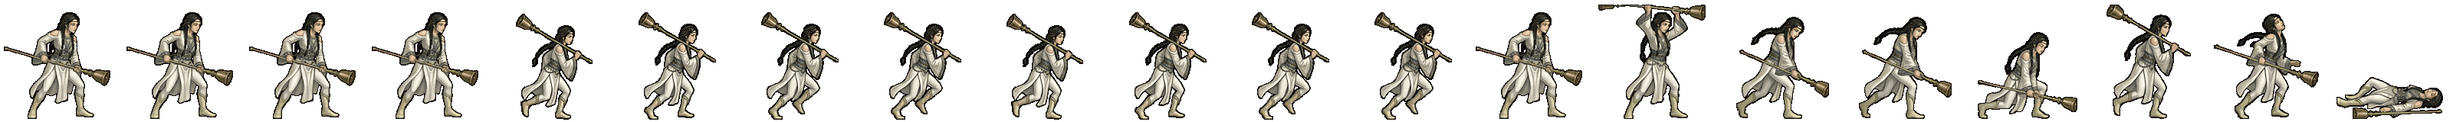
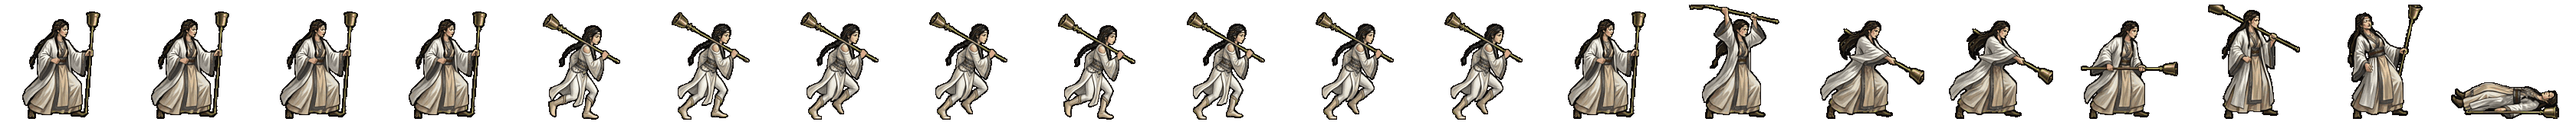
신천간 띠: 동작 8컷만 새로 (제미나이 u/5 · 초상만) — 방울 지팡이 전체가 칸 안에 들어오는 내려치기·쓰러짐 (걷기는 그대로)
Claude-Session: https://claude.ai/code/session_01TRiuN9kn81xgdziumEqNAF

Changed region(s): [[0.0, 0.0312, 1.0, 0.9688]]

diff --git a/src/realm/data/spritePx.ts b/src/realm/data/spritePx.ts
@@ -1,2 +1,2 @@
 /** public/realm/anim-px/manifest.json 의 사본 — tools/sprite-normalize.mjs 가 만든다 (손으로 고치지 말 것). 칸 [가로, 세로] · feet = 발 줄(칸 위에서 y) · bodyPx = 서 있는 몸 키 */
-export const SPRITE_PX: Readonly<Record<string, { readonly cell: readonly [number, number]; readonly feet: number; readonly bodyPx: number; readonly kind: 'general' | 'soldier' | 'folk' | 'crowd'; readonly cells: number }>> = {"axe":{"cell":[166,128],"feet":126,"bodyPx":124,"kind":"soldier","cells":20},"bandit-chief":{"cell":[116,128],"feet":126,"bodyPx":117,"kind":"soldier","cells":20},"bandit-club":{"cell":[127,128],"feet":126,"bodyPx":116,"kind":"soldier","cells":20},"boat":{"cell":[269,128],"feet":126,"bodyPx":126,"kind":"soldier","cells":20},"bow":{"cell":[503,128],"feet":126,"bodyPx":127,"kind":"soldier","cells":20},"crossbow":{"cell":[614,128],"feet":126,"bodyPx":126,"kind":"soldier","cells":20},"gen-adogan":{"cell":[144,160],"feet":156,"bodyPx":70,"kind":"general","cells":20},"gen-alpyeong":{"cell":[144,160],"feet":156,"bodyPx":70,"kind":"general","cells":20},"gen-ara":{"cell":[160,160],"feet":156,"bodyPx":70,"kind":"general","cells":20},"gen-areum":{"cell":[160,160],"feet":156,"bodyPx":70,"kind":"general","cells":20},"gen-aryeong":{"cell":[208,160],"feet":156,"bodyPx":70,"kind":"general","cells":20},"gen-bakdal":{"cell":[160,160],"feet":156,"bodyPx":70,"kind":"general","cells":20},"gen-baram":{"cell":[176,160],"feet":156,"bodyPx":70,"kind":"general","cells":20},"gen-bdanbi":{"cell":[152,160],"feet":156,"bodyPx":70,"kind":"general","cells":20},"gen-beom":{"cell":[168,160],"feet":156,"bodyPx":70,"kind":"general","cells":20},"gen-beombal":{"cell":[216,160],"feet":156,"bodyPx":70,"kind":"general","cells":20},"gen-beomi":{"cell":[160,160],"feet":156,"bodyPx":70,"kind":"general","cells":20},"gen-bira":{"cell":[176,160],"feet":156,"bodyPx":70,"kind":"general","cells":20},"gen-biryu":{"cell":[160,160],"feet":156,"bodyPx":73,"kind":"general","cells":20},"gen-budeul":{"cell":[248,160],"feet":156,"bodyPx":70,"kind":"general","cells":20},"gen-byeol":{"cell":[176,160],"feet":156,"bodyPx":70,"kind":"general","cells":20},"gen-daemusin":{"cell":[152,160],"feet":156,"bodyPx":70,"kind":"general","cells":20},"gen-daeso":{"cell":[176,160],"feet":156,"bodyPx":70,"kind":"general","cells":20},"gen-dallae2":{"cell":[168,160],"feet":156,"bodyPx":70,"kind":"general","cells":20},"gen-dalli":{"cell":[152,160],"feet":156,"bodyPx":70,"kind":"general","cells":20},"gen-damul":{"cell":[152,160],"feet":156,"bodyPx":70,"kind":"general","cells":20},"gen-danbi":{"cell":[152,160],"feet":156,"bodyPx":70,"kind":"general","cells":20},"gen-dangung":{"cell":[192,160],"feet":156,"bodyPx":70,"kind":"general","cells":20},"gen-darae":{"cell":[152,160],"feet":156,"bodyPx":70,"kind":"general","cells":20},"gen-dokmudeom":{"cell":[176,160],"feet":156,"bodyPx":70,"kind":"general","cells":20},"gen-duman":{"cell":[248,160],"feet":156,"bodyPx":70,"kind":"general","cells":20},"gen-eomni":{"cell":[160,160],"feet":156,"bodyPx":70,"kind":"general","cells":20},"gen-eureum":{"cell":[144,160],"feet":156,"bodyPx":70,"kind":"general","cells":20},"gen-g-bow":{"cell":[144,160],"feet":156,"bodyPx":70,"kind":"general","cells":20},"gen-g-spear":{"cell":[208,160],"feet":156,"bodyPx":70,"kind":"general","cells":20},"gen-g-sword":{"cell":[192,160],"feet":156,"bodyPx":70,"kind":"general","cells":20},"gen-gaennae":{"cell":[232,160],"feet":156,"bodyPx":70,"kind":"general","cells":20},"gen-gamsil":{"cell":[160,160],"feet":156,"bodyPx":70,"kind":"general","cells":20},"gen-gaon":{"cell":[152,160],"feet":156,"bodyPx":70,"kind":"general","cells":20},"gen-geota":{"cell":[192,160],"feet":156,"bodyPx":69,"kind":"general","cells":20},"gen-geumbawi":{"cell":[160,160],"feet":156,"bodyPx":70,"kind":"general","cells":20},"gen-geumha":{"cell":[192,160],"feet":156,"bodyPx":72,"kind":"general","cells":20},"gen-goeun":{"cell":[144,160],"feet":156,"bodyPx":70,"kind":"general","cells":20},"gen-gom":{"cell":[168,160],"feet":156,"bodyPx":70,"kind":"general","cells":20},"gen-gomok":{"cell":[152,160],"feet":156,"bodyPx":70,"kind":"general","cells":20},"gen-gureum":{"cell":[216,160],"feet":156,"bodyPx":70,"kind":"general","cells":20},"gen-guryema":{"cell":[152,160],"feet":156,"bodyPx":70,"kind":"general","cells":20},"gen-gwaeyu":{"cell":[200,160],"feet":156,"bodyPx":70,"kind":"general","cells":20},"gen-haebi":{"cell":[152,160],"feet":156,"bodyPx":70,"kind":"general","cells":20},"gen-haedal":{"cell":[152,160],"feet":156,"bodyPx":70,"kind":"general","cells":20},"gen-haesol":{"cell":[168,160],"feet":156,"bodyPx":70,"kind":"general","cells":20},"gen-halla":{"cell":[176,160],"feet":156,"bodyPx":70,"kind":"general","cells":20},"gen-heo":{"cell":[144,160],"feet":156,"bodyPx":70,"kind":"general","cells":20},"gen-hneoul":{"cell":[152,160],"feet":156,"bodyPx":70,"kind":"general","cells":20},"gen-hogong":{"cell":[160,160],"feet":156,"bodyPx":70,"kind":"general","cells":20},"gen-hojin":{"cell":[152,160],"feet":156,"bodyPx":70,"kind":"general","cells":20},"gen-horselord":{"cell":[144,160],"feet":156,"bodyPx":70,"kind":"general","cells":20},"gen-hwalmi":{"cell":[192,160],"feet":156,"bodyPx":70,"kind":"general","cells":20},"gen-hyeokgeose":{"cell":[160,160],"feet":156,"bodyPx":70,"kind":"general","cells":20},"gen-hyeopbo":{"cell":[168,160],"feet":156,"bodyPx":70,"kind":"general","cells":20},"gen-irang":{"cell":[160,160],"feet":156,"bodyPx":70,"kind":"general","cells":20},"gen-jibaekho":{"cell":[224,160],"feet":156,"bodyPx":70,"kind":"general","cells":20},"gen-jinha":{"cell":[168,160],"feet":156,"bodyPx":70,"kind":"general","cells":20},"gen-jita":{"cell":[144,160],"feet":156,"bodyPx":70,"kind":"general","cells":20},"gen-jumong":{"cell":[144,160],"feet":156,"bodyPx":70,"kind":"general","cells":20},"gen-keundol":{"cell":[152,160],"feet":156,"bodyPx":70,"kind":"general","cells":20},"gen-maehwa":{"cell":[144,160],"feet":156,"bodyPx":70,"kind":"general","cells":20},"gen-maenun":{"cell":[136,160],"feet":156,"bodyPx":70,"kind":"general","cells":20},"gen-malgalgi":{"cell":[168,160],"feet":156,"bodyPx":70,"kind":"general","cells":20},"gen-mari":{"cell":[152,160],"feet":156,"bodyPx":70,"kind":"general","cells":20},"gen-maro":{"cell":[160,160],"feet":156,"bodyPx":70,"kind":"general","cells":20},"gen-maryeo":{"cell":[152,160],"feet":156,"bodyPx":70,"kind":"general","cells":20},"gen-mdallae":{"cell":[168,160],"feet":156,"bodyPx":70,"kind":"general","cells":20},"gen-mir":{"cell":[144,160],"feet":156,"bodyPx":70,"kind":"general","cells":20},"gen-mount":{"cell":[232,160],"feet":156,"bodyPx":73,"kind":"general","cells":20},"gen-mulbeom":{"cell":[160,160],"feet":156,"bodyPx":70,"kind":"general","cells":20},"gen-mulsae":{"cell":[168,160],"feet":156,"bodyPx":70,"kind":"general","cells":20},"gen-musoe":{"cell":[152,160],"feet":156,"bodyPx":70,"kind":"general","cells":20},"gen-noeul":{"cell":[160,160],"feet":156,"bodyPx":70,"kind":"general","cells":20},"gen-nuri":{"cell":[168,160],"feet":156,"bodyPx":70,"kind":"general","cells":20},"gen-ocheongan":{"cell":[168,160],"feet":156,"bodyPx":70,"kind":"general","cells":20},"gen-odi":{"cell":[152,160],"feet":156,"bodyPx":70,"kind":"general","cells":20},"gen-odogan":{"cell":[168,160],"feet":156,"bodyPx":70,"kind":"general","cells":20},"gen-ogan":{"cell":[152,160],"feet":156,"bodyPx":70,"kind":"general","cells":20},"gen-oi":{"cell":[152,160],"feet":156,"bodyPx":70,"kind":"general","cells":20},"gen-olddaeso":{"cell":[144,160],"feet":156,"bodyPx":70,"kind":"general","cells":20},"gen-onjo":{"cell":[152,160],"feet":156,"bodyPx":70,"kind":"general","cells":20},"gen-pidogan":{"cell":[152,160],"feet":156,"bodyPx":70,"kind":"general","cells":20},"gen-sagong":{"cell":[160,160],"feet":156,"bodyPx":70,"kind":"general","cells":20},"gen-sdallae":{"cell":[168,160],"feet":156,"bodyPx":70,"kind":"general","cells":20},"gen-sincheongan":{"cell":[160,160],"feet":156,"bodyPx":70,"kind":"general","cells":20},"gen-singwigan":{"cell":[208,160],"feet":156,"bodyPx":70,"kind":"general","cells":20},"gen-sinneoul":{"cell":[176,160],"feet":156,"bodyPx":70,"kind":"general","cells":20},"gen-sobeol":{"cell":[152,160],"feet":156,"bodyPx":70,"kind":"general","cells":20},"gen-soebi":{"cell":[160,160],"feet":156,"bodyPx":70,"kind":"general","cells":20},"gen-soebo":{"cell":[208,160],"feet":156,"bodyPx":72,"kind":"general","cells":20},"gen-soenun":{"cell":[248,160],"feet":156,"bodyPx":70,"kind":"general","cells":20},"gen-sogeumbi":{"cell":[232,160],"feet":156,"bodyPx":70,"kind":"general","cells":20},"gen-songbi":{"cell":[152,160],"feet":156,"bodyPx":70,"kind":"general","cells":20},"gen-songyang":{"cell":[136,160],"feet":156,"bodyPx":70,"kind":"general","cells":20},"gen-sori":{"cell":[208,160],"feet":156,"bodyPx":70,"kind":"general","cells":20},"gen-soseono":{"cell":[208,160],"feet":156,"bodyPx":70,"kind":"general","cells":20},"gen-suro":{"cell":[160,160],"feet":156,"bodyPx":70,"kind":"general","cells":20},"gen-tahae":{"cell":[152,160],"feet":156,"bodyPx":70,"kind":"general","cells":20},"gen-tneoul":{"cell":[152,160],"feet":156,"bodyPx":70,"kind":"general","cells":20},"gen-w-bow":{"cell":[144,160],"feet":156,"bodyPx":70,"kind":"general","cells":20},"gen-w-spear":{"cell":[176,160],"feet":156,"bodyPx":70,"kind":"general","cells":20},"gen-waechief":{"cell":[152,160],"feet":156,"bodyPx":70,"kind":"general","cells":20},"gen-wan":{"cell":[144,160],"feet":156,"bodyPx":70,"kind":"general","cells":20},"gen-yeodogan":{"cell":[176,160],"feet":156,"bodyPx":70,"kind":"general","cells":20},"gen-yucheongan":{"cell":[152,160],"feet":156,"bodyPx":70,"kind":"general","cells":20},"gen-yusugan":{"cell":[168,160],"feet":156,"bodyPx":70,"kind":"general","cells":20},"horse":{"cell":[186,128],"feet":126,"bodyPx":127,"kind":"soldier","cells":20},"marine":{"cell":[298,128],"feet":126,"bodyPx":126,"kind":"soldier","cells":20},"migrant":{"cell":[82,128],"feet":126,"bodyPx":114,"kind":"folk","cells":8},"militia":{"cell":[134,128],"feet":126,"bodyPx":119,"kind":"soldier","cells":20},"pike":{"cell":[380,128],"feet":126,"bodyPx":124,"kind":"soldier","cells":20},"pirate-captain":{"cell":[114,128],"feet":126,"bodyPx":115,"kind":"soldier","cells":20},"pirate-sword":{"cell":[122,128],"feet":126,"bodyPx":114,"kind":"soldier","cells":20},"shield":{"cell":[254,128],"feet":126,"bodyPx":128,"kind":"soldier","cells":20},"spear":{"cell":[438,128],"feet":126,"bodyPx":126,"kind":"soldier","cells":20},"villager-builder":{"cell":[88,128],"feet":126,"bodyPx":113,"kind":"folk","cells":8},"villager-farmer":{"cell":[100,128],"feet":126,"bodyPx":115,"kind":"folk","cells":8},"villager-porter":{"cell":[108,128],"feet":126,"bodyPx":115,"kind":"folk","cells":8},"villager-woman":{"cell":[63,128],"feet":126,"bodyPx":113,"kind":"folk","cells":8},"crowd-b1":{"cell":[69,96],"feet":96,"bodyPx":96,"kind":"crowd","cells":1},"crowd-b2":{"cell":[54,96],"feet":96,"bodyPx":96,"kind":"crowd","cells":1},"crowd-b3":{"cell":[47,96],"feet":96,"bodyPx":96,"kind":"crowd","cells":1},"crowd-b4":{"cell":[49,96],"feet":96,"bodyPx":96,"kind":"crowd","cells":1},"crowd-b5":{"cell":[57,96],"feet":96,"bodyPx":96,"kind":"crowd","cells":1},"crowd-b6":{"cell":[55,96],"feet":96,"bodyPx":96,"kind":"crowd","cells":1},"crowd-f1":{"cell":[69,96],"feet":96,"bodyPx":96,"kind":"crowd","cells":1},"crowd-f2":{"cell":[55,96],"feet":96,"bodyPx":96,"kind":"crowd","cells":1},"crowd-f3":{"cell":[45,96],"feet":96,"bodyPx":96,"kind":"crowd","cells":1},"crowd-f4":{"cell":[53,96],"feet":96,"bodyPx":96,"kind":"crowd","cells":1},"crowd-f5":{"cell":[69,96],"feet":96,"bodyPx":96,"kind":"crowd","cells":1},"crowd-f6":{"cell":[64,96],"feet":96,"bodyPx":96,"kind":"crowd","cells":1},"gen-dalbit":{"cell":[96,72],"feet":72,"bodyPx":72,"kind":"general","cells":20}}
+export const SPRITE_PX: Readonly<Record<string, { readonly cell: readonly [number, number]; readonly feet: number; readonly bodyPx: number; readonly kind: 'general' | 'soldier' | 'folk' | 'crowd'; readonly cells: number }>> = {"axe":{"cell":[166,128],"feet":126,"bodyPx":124,"kind":"soldier","cells":20},"bandit-chief":{"cell":[116,128],"feet":126,"bodyPx":117,"kind":"soldier","cells":20},"bandit-club":{"cell":[127,128],"feet":126,"bodyPx":116,"kind":"soldier","cells":20},"boat":{"cell":[269,128],"feet":126,"bodyPx":126,"kind":"soldier","cells":20},"bow":{"cell":[503,128],"feet":126,"bodyPx":127,"kind":"soldier","cells":20},"crossbow":{"cell":[614,128],"feet":126,"bodyPx":126,"kind":"soldier","cells":20},"gen-adogan":{"cell":[144,160],"feet":156,"bodyPx":70,"kind":"general","cells":20},"gen-alpyeong":{"cell":[144,160],"feet":156,"bodyPx":70,"kind":"general","cells":20},"gen-ara":{"cell":[160,160],"feet":156,"bodyPx":70,"kind":"general","cells":20},"gen-areum":{"cell":[160,160],"feet":156,"bodyPx":70,"kind":"general","cells":20},"gen-aryeong":{"cell":[208,160],"feet":156,"bodyPx":70,"kind":"general","cells":20},"gen-bakdal":{"cell":[160,160],"feet":156,"bodyPx":70,"kind":"general","cells":20},"gen-baram":{"cell":[176,160],"feet":156,"bodyPx":70,"kind":"general","cells":20},"gen-bdanbi":{"cell":[152,160],"feet":156,"bodyPx":70,"kind":"general","cells":20},"gen-beom":{"cell":[168,160],"feet":156,"bodyPx":70,"kind":"general","cells":20},"gen-beombal":{"cell":[216,160],"feet":156,"bodyPx":70,"kind":"general","cells":20},"gen-beomi":{"cell":[160,160],"feet":156,"bodyPx":70,"kind":"general","cells":20},"gen-bira":{"cell":[176,160],"feet":156,"bodyPx":70,"kind":"general","cells":20},"gen-biryu":{"cell":[160,160],"feet":156,"bodyPx":73,"kind":"general","cells":20},"gen-budeul":{"cell":[248,160],"feet":156,"bodyPx":70,"kind":"general","cells":20},"gen-byeol":{"cell":[176,160],"feet":156,"bodyPx":70,"kind":"general","cells":20},"gen-daemusin":{"cell":[152,160],"feet":156,"bodyPx":70,"kind":"general","cells":20},"gen-daeso":{"cell":[176,160],"feet":156,"bodyPx":70,"kind":"general","cells":20},"gen-dallae2":{"cell":[168,160],"feet":156,"bodyPx":70,"kind":"general","cells":20},"gen-dalli":{"cell":[152,160],"feet":156,"bodyPx":70,"kind":"general","cells":20},"gen-damul":{"cell":[152,160],"feet":156,"bodyPx":70,"kind":"general","cells":20},"gen-danbi":{"cell":[152,160],"feet":156,"bodyPx":70,"kind":"general","cells":20},"gen-dangung":{"cell":[192,160],"feet":156,"bodyPx":70,"kind":"general","cells":20},"gen-darae":{"cell":[152,160],"feet":156,"bodyPx":70,"kind":"general","cells":20},"gen-dokmudeom":{"cell":[176,160],"feet":156,"bodyPx":70,"kind":"general","cells":20},"gen-duman":{"cell":[248,160],"feet":156,"bodyPx":70,"kind":"general","cells":20},"gen-eomni":{"cell":[160,160],"feet":156,"bodyPx":70,"kind":"general","cells":20},"gen-eureum":{"cell":[144,160],"feet":156,"bodyPx":70,"kind":"general","cells":20},"gen-g-bow":{"cell":[144,160],"feet":156,"bodyPx":70,"kind":"general","cells":20},"gen-g-spear":{"cell":[208,160],"feet":156,"bodyPx":70,"kind":"general","cells":20},"gen-g-sword":{"cell":[192,160],"feet":156,"bodyPx":70,"kind":"general","cells":20},"gen-gaennae":{"cell":[232,160],"feet":156,"bodyPx":70,"kind":"general","cells":20},"gen-gamsil":{"cell":[160,160],"feet":156,"bodyPx":70,"kind":"general","cells":20},"gen-gaon":{"cell":[152,160],"feet":156,"bodyPx":70,"kind":"general","cells":20},"gen-geota":{"cell":[192,160],"feet":156,"bodyPx":69,"kind":"general","cells":20},"gen-geumbawi":{"cell":[160,160],"feet":156,"bodyPx":70,"kind":"general","cells":20},"gen-geumha":{"cell":[192,160],"feet":156,"bodyPx":72,"kind":"general","cells":20},"gen-goeun":{"cell":[144,160],"feet":156,"bodyPx":70,"kind":"general","cells":20},"gen-gom":{"cell":[168,160],"feet":156,"bodyPx":70,"kind":"general","cells":20},"gen-gomok":{"cell":[152,160],"feet":156,"bodyPx":70,"kind":"general","cells":20},"gen-gureum":{"cell":[216,160],"feet":156,"bodyPx":70,"kind":"general","cells":20},"gen-guryema":{"cell":[152,160],"feet":156,"bodyPx":70,"kind":"general","cells":20},"gen-gwaeyu":{"cell":[200,160],"feet":156,"bodyPx":70,"kind":"general","cells":20},"gen-haebi":{"cell":[152,160],"feet":156,"bodyPx":70,"kind":"general","cells":20},"gen-haedal":{"cell":[152,160],"feet":156,"bodyPx":70,"kind":"general","cells":20},"gen-haesol":{"cell":[168,160],"feet":156,"bodyPx":70,"kind":"general","cells":20},"gen-halla":{"cell":[176,160],"feet":156,"bodyPx":70,"kind":"general","cells":20},"gen-heo":{"cell":[144,160],"feet":156,"bodyPx":70,"kind":"general","cells":20},"gen-hneoul":{"cell":[152,160],"feet":156,"bodyPx":70,"kind":"general","cells":20},"gen-hogong":{"cell":[160,160],"feet":156,"bodyPx":70,"kind":"general","cells":20},"gen-hojin":{"cell":[152,160],"feet":156,"bodyPx":70,"kind":"general","cells":20},"gen-horselord":{"cell":[144,160],"feet":156,"bodyPx":70,"kind":"general","cells":20},"gen-hwalmi":{"cell":[192,160],"feet":156,"bodyPx":70,"kind":"general","cells":20},"gen-hyeokgeose":{"cell":[160,160],"feet":156,"bodyPx":70,"kind":"general","cells":20},"gen-hyeopbo":{"cell":[168,160],"feet":156,"bodyPx":70,"kind":"general","cells":20},"gen-irang":{"cell":[160,160],"feet":156,"bodyPx":70,"kind":"general","cells":20},"gen-jibaekho":{"cell":[224,160],"feet":156,"bodyPx":70,"kind":"general","cells":20},"gen-jinha":{"cell":[168,160],"feet":156,"bodyPx":70,"kind":"general","cells":20},"gen-jita":{"cell":[144,160],"feet":156,"bodyPx":70,"kind":"general","cells":20},"gen-jumong":{"cell":[144,160],"feet":156,"bodyPx":70,"kind":"general","cells":20},"gen-keundol":{"cell":[152,160],"feet":156,"bodyPx":70,"kind":"general","cells":20},"gen-maehwa":{"cell":[144,160],"feet":156,"bodyPx":70,"kind":"general","cells":20},"gen-maenun":{"cell":[136,160],"feet":156,"bodyPx":70,"kind":"general","cells":20},"gen-malgalgi":{"cell":[168,160],"feet":156,"bodyPx":70,"kind":"general","cells":20},"gen-mari":{"cell":[152,160],"feet":156,"bodyPx":70,"kind":"general","cells":20},"gen-maro":{"cell":[160,160],"feet":156,"bodyPx":70,"kind":"general","cells":20},"gen-maryeo":{"cell":[152,160],"feet":156,"bodyPx":70,"kind":"general","cells":20},"gen-mdallae":{"cell":[168,160],"feet":156,"bodyPx":70,"kind":"general","cells":20},"gen-mir":{"cell":[144,160],"feet":156,"bodyPx":70,"kind":"general","cells":20},"gen-mount":{"cell":[232,160],"feet":156,"bodyPx":73,"kind":"general","cells":20},"gen-mulbeom":{"cell":[160,160],"feet":156,"bodyPx":70,"kind":"general","cells":20},"gen-mulsae":{"cell":[168,160],"feet":156,"bodyPx":70,"kind":"general","cells":20},"gen-musoe":{"cell":[152,160],"feet":156,"bodyPx":70,"kind":"general","cells":20},"gen-noeul":{"cell":[160,160],"feet":156,"bodyPx":70,"kind":"general","cells":20},"gen-nuri":{"cell":[168,160],"feet":156,"bodyPx":70,"kind":"general","cells":20},"gen-ocheongan":{"cell":[168,160],"feet":156,"bodyPx":70,"kind":"general","cells":20},"gen-odi":{"cell":[152,160],"feet":156,"bodyPx":70,"kind":"general","cells":20},"gen-odogan":{"cell":[168,160],"feet":156,"bodyPx":70,"kind":"general","cells":20},"gen-ogan":{"cell":[152,160],"feet":156,"bodyPx":70,"kind":"general","cells":20},"gen-oi":{"cell":[152,160],"feet":156,"bodyPx":70,"kind":"general","cells":20},"gen-olddaeso":{"cell":[144,160],"feet":156,"bodyPx":70,"kind":"general","cells":20},"gen-onjo":{"cell":[152,160],"feet":156,"bodyPx":70,"kind":"general","cells":20},"gen-pidogan":{"cell":[152,160],"feet":156,"bodyPx":70,"kind":"general","cells":20},"gen-sagong":{"cell":[160,160],"feet":156,"bodyPx":70,"kind":"general","cells":20},"gen-sdallae":{"cell":[168,160],"feet":156,"bodyPx":70,"kind":"general","cells":20},"gen-sincheongan":{"cell":[168,160],"feet":156,"bodyPx":70,"kind":"general","cells":20},"gen-singwigan":{"cell":[208,160],"feet":156,"bodyPx":70,"kind":"general","cells":20},"gen-sinneoul":{"cell":[176,160],"feet":156,"bodyPx":70,"kind":"general","cells":20},"gen-sobeol":{"cell":[152,160],"feet":156,"bodyPx":70,"kind":"general","cells":20},"gen-soebi":{"cell":[160,160],"feet":156,"bodyPx":70,"kind":"general","cells":20},"gen-soebo":{"cell":[208,160],"feet":156,"bodyPx":72,"kind":"general","cells":20},"gen-soenun":{"cell":[248,160],"feet":156,"bodyPx":70,"kind":"general","cells":20},"gen-sogeumbi":{"cell":[232,160],"feet":156,"bodyPx":70,"kind":"general","cells":20},"gen-songbi":{"cell":[152,160],"feet":156,"bodyPx":70,"kind":"general","cells":20},"gen-songyang":{"cell":[136,160],"feet":156,"bodyPx":70,"kind":"general","cells":20},"gen-sori":{"cell":[208,160],"feet":156,"bodyPx":70,"kind":"general","cells":20},"gen-soseono":{"cell":[208,160],"feet":156,"bodyPx":70,"kind":"general","cells":20},"gen-suro":{"cell":[160,160],"feet":156,"bodyPx":70,"kind":"general","cells":20},"gen-tahae":{"cell":[152,160],"feet":156,"bodyPx":70,"kind":"general","cells":20},"gen-tneoul":{"cell":[152,160],"feet":156,"bodyPx":70,"kind":"general","cells":20},"gen-w-bow":{"cell":[144,160],"feet":156,"bodyPx":70,"kind":"general","cells":20},"gen-w-spear":{"cell":[176,160],"feet":156,"bodyPx":70,"kind":"general","cells":20},"gen-waechief":{"cell":[152,160],"feet":156,"bodyPx":70,"kind":"general","cells":20},"gen-wan":{"cell":[144,160],"feet":156,"bodyPx":70,"kind":"general","cells":20},"gen-yeodogan":{"cell":[176,160],"feet":156,"bodyPx":70,"kind":"general","cells":20},"gen-yucheongan":{"cell":[152,160],"feet":156,"bodyPx":70,"kind":"general","cells":20},"gen-yusugan":{"cell":[168,160],"feet":156,"bodyPx":70,"kind":"general","cells":20},"horse":{"cell":[186,128],"feet":126,"bodyPx":127,"kind":"soldier","cells":20},"marine":{"cell":[298,128],"feet":126,"bodyPx":126,"kind":"soldier","cells":20},"migrant":{"cell":[82,128],"feet":126,"bodyPx":114,"kind":"folk","cells":8},"militia":{"cell":[134,128],"feet":126,"bodyPx":119,"kind":"soldier","cells":20},"pike":{"cell":[380,128],"feet":126,"bodyPx":124,"kind":"soldier","cells":20},"pirate-captain":{"cell":[114,128],"feet":126,"bodyPx":115,"kind":"soldier","cells":20},"pirate-sword":{"cell":[122,128],"feet":126,"bodyPx":114,"kind":"soldier","cells":20},"shield":{"cell":[254,128],"feet":126,"bodyPx":128,"kind":"soldier","cells":20},"spear":{"cell":[438,128],"feet":126,"bodyPx":126,"kind":"soldier","cells":20},"villager-builder":{"cell":[88,128],"feet":126,"bodyPx":113,"kind":"folk","cells":8},"villager-farmer":{"cell":[100,128],"feet":126,"bodyPx":115,"kind":"folk","cells":8},"villager-porter":{"cell":[108,128],"feet":126,"bodyPx":115,"kind":"folk","cells":8},"villager-woman":{"cell":[63,128],"feet":126,"bodyPx":113,"kind":"folk","cells":8},"crowd-b1":{"cell":[69,96],"feet":96,"bodyPx":96,"kind":"crowd","cells":1},"crowd-b2":{"cell":[54,96],"feet":96,"bodyPx":96,"kind":"crowd","cells":1},"crowd-b3":{"cell":[47,96],"feet":96,"bodyPx":96,"kind":"crowd","cells":1},"crowd-b4":{"cell":[49,96],"feet":96,"bodyPx":96,"kind":"crowd","cells":1},"crowd-b5":{"cell":[57,96],"feet":96,"bodyPx":96,"kind":"crowd","cells":1},"crowd-b6":{"cell":[55,96],"feet":96,"bodyPx":96,"kind":"crowd","cells":1},"crowd-f1":{"cell":[69,96],"feet":96,"bodyPx":96,"kind":"crowd","cells":1},"crowd-f2":{"cell":[55,96],"feet":96,"bodyPx":96,"kind":"crowd","cells":1},"crowd-f3":{"cell":[45,96],"feet":96,"bodyPx":96,"kind":"crowd","cells":1},"crowd-f4":{"cell":[53,96],"feet":96,"bodyPx":96,"kind":"crowd","cells":1},"crowd-f5":{"cell":[69,96],"feet":96,"bodyPx":96,"kind":"crowd","cells":1},"crowd-f6":{"cell":[64,96],"feet":96,"bodyPx":96,"kind":"crowd","cells":1},"gen-dalbit":{"cell":[96,72],"feet":72,"bodyPx":72,"kind":"general","cells":20}}

diff --git a/src/ui/realm/battle-strikes.ts b/src/ui/realm/battle-strikes.ts
@@ -143,7 +143,7 @@ const CONTACT: Readonly<Record<string, [number, number, number]>> = {
   'gen-haebi': [14, 0.87, 0.73], 'gen-heo': [14, 0.94, 0.46], 'gen-hyeokgeose': [14, 0.83, 0.94],
   'gen-hyeopbo': [14, .93, .21], 'gen-malgalgi': [14, 0.88, 0.28], 'gen-mari': [14, .98, .47],
   'gen-oi': [14, .98, .48], 'gen-onjo': [14, 0.83, 0.93], 'gen-soebi': [14, 0.80, 0.95],
-  'gen-soseono': [14, 0.99, 0.36], 'gen-bdanbi': [14, 0.90, 0.67], 'gen-dallae2': [14, 0.97, 0.16], 'gen-maryeo': [14, 0.91, 0.79], 'gen-horselord': [14, 0.89, 0.25], 'gen-olddaeso': [14, 0.93, 0.91], 'gen-maro': [14, 0.97, 0.49], 'gen-gwaeyu': [14, 0.98, 0.71], 'gen-daemusin': [14, 0.91, 0.38], 'gen-tahae': [14, 0.91, 0.74], 'gen-ocheongan': [14, 0.82, 0.49], 'gen-yusugan': [14, 0.95, 0.70], 'gen-odogan': [14, 0.96, 0.33], 'gen-pidogan': [14, 0.94, 0.75], 'gen-yeodogan': [14, 0.93, 0.57], 'gen-adogan': [14, 0.95, 0.41], 'gen-musoe': [14, 0.94, 0.39], 'gen-suro': [14, 0.82, 0.53], 'gen-waechief': [14, 0.95, 0.68], 'gen-hojin': [14, 0.97, 0.64], 'gen-jita': [14, 0.93, 0.29], 'gen-guryema': [14, 0.89, 0.28], 'gen-jibaekho': [14, 0.97, 0.33], 'gen-sobeol': [14, 0.95, 0.33], 'gen-alpyeong': [14, 0.95, 0.54], 'gen-hogong': [14, 0.98, 0.27], 'gen-geumbawi': [14, 0.91, 0.92], 'gen-keundol': [14, 0.90, 0.68], 'gen-jinha': [14, 0.76, 0.93], 'gen-duman': [14, 0.97, 0.39], 'gen-gomok': [14, 0.94, 0.57], 'gen-hneoul': [14, 0.92, 0.27], 'gen-tneoul': [14, 0.84, 0.57], 'gen-sdallae': [14, 0.89, 0.29], 'gen-yucheongan': [14, 0.94, 0.48], 'gen-sincheongan': [14, 0.91, 0.71], 'gen-singwigan': [14, 0.98, 0.21], 'gen-mdallae': [14, 0.98, 0.29], 'gen-mulbeom': [14, 0.95, 0.39], 'gen-beomi': [14, 0.88, 0.43], 'gen-danbi': [14, 0.90, 0.30], 'gen-mulsae': [14, 0.92, 0.46], 'gen-darae': [14, 0.89, 0.29], 'gen-mir': [14, 0.91, 0.33], 'gen-wan': [14, 0.94, 0.30], 'gen-gom': [14, 0.94, 0.74], 'gen-sagong': [14, 0.79, 0.96], 'gen-halla': [14, 0.86, 0.46], 'gen-areum': [14, 0.86, 0.65], 'gen-dokmudeom': [14, 0.95, 0.28], 'gen-beom': [14, 0.98, 0.28], 'gen-baram': [14, 0.96, 0.24], 'gen-goeun': [14, 0.95, 0.66], 'gen-byeol': [14, .88, .60], 'gen-sinneoul': [14, 0.95, 0.33], 'gen-haesol': [14, 0.95, 0.39], 'gen-odi': [14, 0.95, 0.37], 'gen-irang': [14, 0.86, 0.30], 'gen-dalli': [14, 0.89, 0.32], 'gen-bakdal': [14, 0.94, 0.27], 'gen-noeul': [14, 0.88, 0.27], 'gen-maehwa': [14, 0.90, 0.31], 'gen-gaon': [14, 0.98, 0.48], 'gen-eomni': [14, 0.96, 0.42], 'gen-nuri': [14, 0.98, 0.42], 'gen-bira': [14, 0.88, 0.42], 'gen-gureum': [14, .94, .40],
+  'gen-soseono': [14, 0.99, 0.36], 'gen-bdanbi': [14, 0.90, 0.67], 'gen-dallae2': [14, 0.97, 0.16], 'gen-maryeo': [14, 0.91, 0.79], 'gen-horselord': [14, 0.89, 0.25], 'gen-olddaeso': [14, 0.93, 0.91], 'gen-maro': [14, 0.97, 0.49], 'gen-gwaeyu': [14, 0.98, 0.71], 'gen-daemusin': [14, 0.91, 0.38], 'gen-tahae': [14, 0.91, 0.74], 'gen-ocheongan': [14, 0.82, 0.49], 'gen-yusugan': [14, 0.95, 0.70], 'gen-odogan': [14, 0.96, 0.33], 'gen-pidogan': [14, 0.94, 0.75], 'gen-yeodogan': [14, 0.93, 0.57], 'gen-adogan': [14, 0.95, 0.41], 'gen-musoe': [14, 0.94, 0.39], 'gen-suro': [14, 0.82, 0.53], 'gen-waechief': [14, 0.95, 0.68], 'gen-hojin': [14, 0.97, 0.64], 'gen-jita': [14, 0.93, 0.29], 'gen-guryema': [14, 0.89, 0.28], 'gen-jibaekho': [14, 0.97, 0.33], 'gen-sobeol': [14, 0.95, 0.33], 'gen-alpyeong': [14, 0.95, 0.54], 'gen-hogong': [14, 0.98, 0.27], 'gen-geumbawi': [14, 0.91, 0.92], 'gen-keundol': [14, 0.90, 0.68], 'gen-jinha': [14, 0.76, 0.93], 'gen-duman': [14, 0.97, 0.39], 'gen-gomok': [14, 0.94, 0.57], 'gen-hneoul': [14, 0.92, 0.27], 'gen-tneoul': [14, 0.84, 0.57], 'gen-sdallae': [14, 0.89, 0.29], 'gen-yucheongan': [14, 0.94, 0.48], 'gen-sincheongan': [14, .91, .60], 'gen-singwigan': [14, 0.98, 0.21], 'gen-mdallae': [14, 0.98, 0.29], 'gen-mulbeom': [14, 0.95, 0.39], 'gen-beomi': [14, 0.88, 0.43], 'gen-danbi': [14, 0.90, 0.30], 'gen-mulsae': [14, 0.92, 0.46], 'gen-darae': [14, 0.89, 0.29], 'gen-mir': [14, 0.91, 0.33], 'gen-wan': [14, 0.94, 0.30], 'gen-gom': [14, 0.94, 0.74], 'gen-sagong': [14, 0.79, 0.96], 'gen-halla': [14, 0.86, 0.46], 'gen-areum': [14, 0.86, 0.65], 'gen-dokmudeom': [14, 0.95, 0.28], 'gen-beom': [14, 0.98, 0.28], 'gen-baram': [14, 0.96, 0.24], 'gen-goeun': [14, 0.95, 0.66], 'gen-byeol': [14, .88, .60], 'gen-sinneoul': [14, 0.95, 0.33], 'gen-haesol': [14, 0.95, 0.39], 'gen-odi': [14, 0.95, 0.37], 'gen-irang': [14, 0.86, 0.30], 'gen-dalli': [14, 0.89, 0.32], 'gen-bakdal': [14, 0.94, 0.27], 'gen-noeul': [14, 0.88, 0.27], 'gen-maehwa': [14, 0.90, 0.31], 'gen-gaon': [14, 0.98, 0.48], 'gen-eomni': [14, 0.96, 0.42], 'gen-nuri': [14, 0.98, 0.42], 'gen-bira': [14, 0.88, 0.42], 'gen-gureum': [14, .94, .40],
   'gen-biryu': [14, 0.90, 0.35], 'gen-geumha': [14, 0.94, 0.61], 'gen-geota': [14, 0.86, 0.47], 'gen-soebo': [14, 0.87, 0.57],
   'gen-gaennae': [14, 249 / 264, 47 / 160],
   'gen-budeul': [14, 266 / 280, 51 / 160],

diff --git a/src/realm/data/art.ts b/src/realm/data/art.ts
@@ -540,7 +540,7 @@ export const GEN_ANIM: Readonly<Partial<Record<string, { ar: number; body: numbe
   mulbeom: { ar: 165 / 160, body: 0.900 }, // 11-08 초상대로 다시 (형: 「투구 쓰고 원본과 다르다」 · 제미나이 걷기 4×2 + 동작 4×2 → 20컷 · assets_src/realm/gemini/generals2) · 11-08 처음 · mulbeom 동작 띠 다시 — 형이 구움 (굽기 꾸러미 · 검수 1·3번)
   mdallae: { ar: 170 / 160, body: 0.906 }, // 11-08 초상대로 다시 (형: 「투구 쓰고 원본과 다르다」 · 제미나이 걷기 4×2 + 동작 4×2 → 20컷 · assets_src/realm/gemini/generals2) · 11-08 처음 · mdallae 동작 띠 다시 — 형이 구움 (굽기 꾸러미 · 검수 1·3번)
   singwigan: { ar: 204 / 160, body: 0.900 }, // 11-08 초상대로 다시 (형: 「투구 쓰고 원본과 다르다」 · 제미나이 걷기 4×2 + 동작 4×2 → 20컷 · assets_src/realm/gemini/generals2) · 11-08 처음 · singwigan 동작 띠 다시 — 형이 구움 (굽기 꾸러미 · 검수 1·3번)
-  sincheongan: { ar: 162 / 160, body: 0.906 }, // 11-08 초상대로 다시 (형: 「투구 쓰고 원본과 다르다」 · 제미나이 걷기 4×2 + 동작 4×2 → 20컷 · assets_src/realm/gemini/generals2) · 11-08 처음 · 가락 신천간(머리띠·흰 겉옷·비취 목걸이·청동 방울 지팡이 내려치기)
+  sincheongan: { ar: 185 / 160, body: 0.906 }, // 11-11 동작 8컷만 새로(제미나이 u/5 · 초상만 · 방울 지팡이 전체가 칸 안, 걷기는 그대로) · 11-08 초상대로 다시 (형: 「투구 쓰고 원본과 다르다」 · 제미나이 걷기 4×2 + 동작 4×2 → 20컷 · assets_src/realm/gemini/generals2) · 11-08 처음 · 가락 신천간(머리띠·흰 겉옷·비취 목걸이·청동 방울 지팡이 내려치기)
   yucheongan: { ar: 155 / 160, body: 0.906 }, // 11-08 초상대로 다시 (형: 「투구 쓰고 원본과 다르다」 · 제미나이 걷기 4×2 + 동작 4×2 → 20컷 · assets_src/realm/gemini/generals2) · 11-08 처음 · yucheongan 동작 띠 다시 — 형이 구움 (굽기 꾸러미 · 검수 1·3번)
   sdallae: { ar: 163 / 160, body: 0.906, bow: true }, // 11-08 초상대로 다시 (형: 「투구 쓰고 원본과 다르다」 · 제미나이 걷기 4×2 + 동작 4×2 → 20컷 · assets_src/realm/gemini/generals2) · 11-08 처음 · 사로 달래 · 붉은 저고리·털 망토·활
   tneoul: { ar: 157 / 160, body: 0.906 }, // 11-08 초상대로 다시 (형: 「투구 쓰고 원본과 다르다」 · 제미나이 걷기 4×2 + 동작 4×2 → 20컷 · assets_src/realm/gemini/generals2) · 11-08 처음 · 탈해 무리 뱃사람 너울 · 베 겉옷·밧줄·맨발·노
